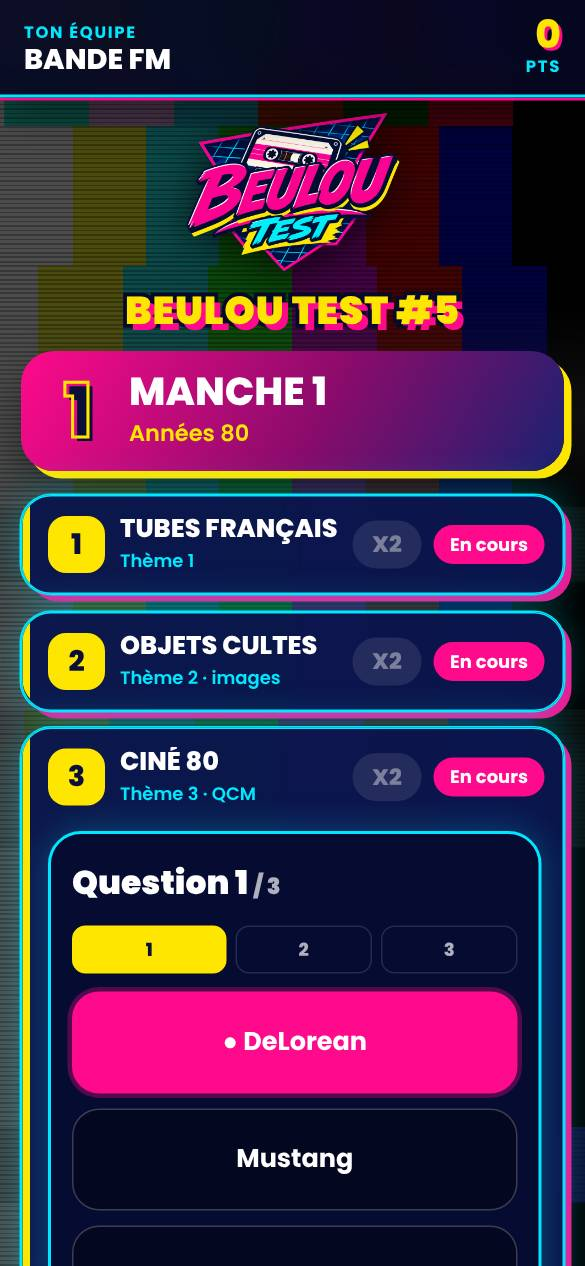
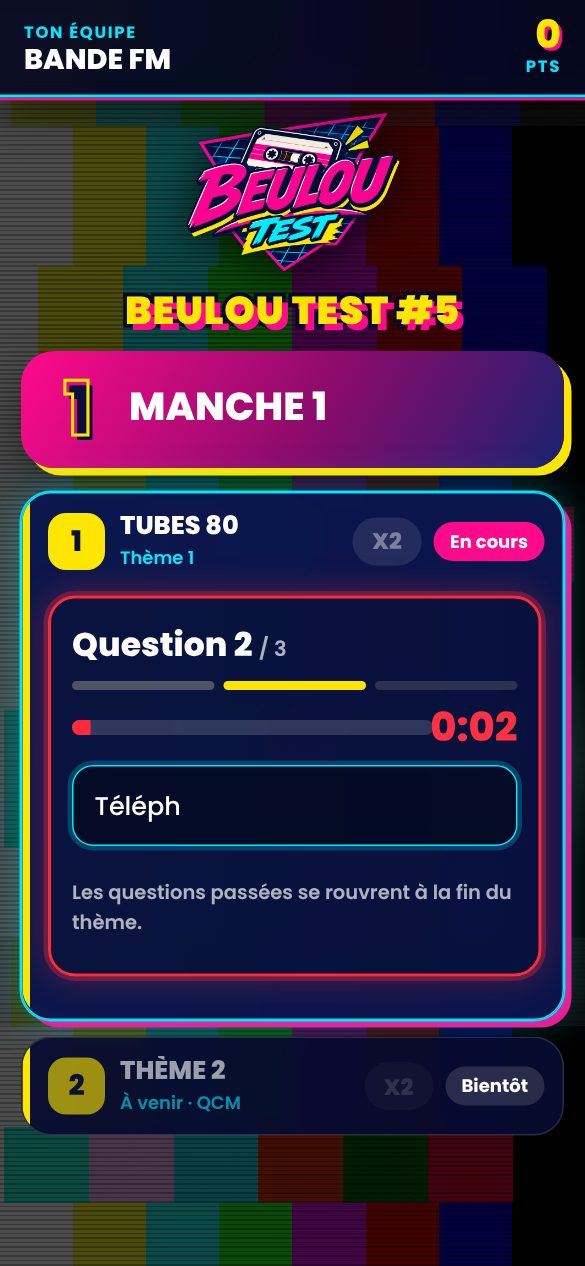
Chrono par question (rouge et qui grossit sur les 5 dernières s), une question à la fois chez les joueurs, égaliseurs selon le thème graphique
Claude-Session: https://claude.ai/code/session_012a2VTXMy2kmUcEyQcvbiQM

diff --git a/index.html b/index.html
@@ -856,6 +856,60 @@ body.sk-school .btn.gh{color:var(--fg);border-color:rgba(28,37,82,.35);backgroun
 /* effets */
 .lv-fx{align-self:center;margin:0 0 10px;padding:5px 12px;border-radius:999px;background:var(--p);font:800 12px Poppins;letter-spacing:.04em}
 .tv-fx{margin:0;color:var(--y)!important;font-weight:800}
+/* ---------- chrono des questions ---------- */
+.qtc{--red:#ff2b3a;display:flex;align-items:center;gap:10px;margin:0 0 12px}
+.qtc-t{flex:1;height:10px;border-radius:6px;background:rgba(255,255,255,.16);overflow:hidden}
+body.sk-school .qtc-t{background:rgba(28,37,82,.12)}
+.qtc-t i{display:block;height:100%;width:100%;background:var(--c);border-radius:6px;transform-origin:left}
+.qtc>b{min-width:46px;text-align:right;font:800 18px var(--fb);font-variant-numeric:tabular-nums;transform:scale(var(--grow,1));transform-origin:right center;transition:transform .2s ease-out}
+.qtc small{flex-basis:100%;order:3;margin-top:-6px;font:600 11px var(--fb);color:var(--mut)}
+.qtc{flex-wrap:wrap}
+.qtc.hot .qtc-t i,.qtc.over .qtc-t i{background:var(--red)}.qtc.hot>b,.qtc.over>b{color:var(--red)}
+.qtp{animation:qtp .9s cubic-bezier(.2,.7,.3,1)}@keyframes qtp{0%{filter:brightness(2.2)}100%{filter:none}}
+.lv-qt{margin:0 0 6px}
+/* une question à la fois */
+.oq{display:flex;flex-direction:column;gap:12px;padding:14px;border-radius:18px;background:rgba(0,0,0,.18);border:2px solid var(--c);margin:0 0 12px;transition:border-color .3s,box-shadow .3s}
+body.sk-school .oq{background:#fff}
+.oq.qt-hot{border-color:#ff2b3a;box-shadow:0 0 0 3px rgba(255,43,58,.3),0 0 24px rgba(255,43,58,.35)}
+.oq.lk{border-color:rgba(255,43,58,.6)}
+.oq .qtc{margin:0}
+.oq-h{display:flex;flex-direction:column;gap:8px}.oq-h b{font:800 22px var(--fb)}.oq-h small{font-size:14px;color:var(--mut);font-weight:600}
+.oq-d{display:flex;gap:6px}.oq-d i{flex:1;height:6px;border-radius:3px;background:rgba(127,127,127,.3)}.oq-d i.ps{background:rgba(127,127,127,.6)}.oq-d i.cu{background:var(--y)}
+.oq-a{border:0;margin:0;padding:0;min-width:0;display:flex;flex-direction:column;gap:10px}
+.oq-a .in{font-size:17px;padding:14px}.oq-a .qf2{display:flex;flex-direction:column;gap:10px}
+.oq-a:disabled{opacity:.55}
+.oq-img{border:0;padding:0;background:none;border-radius:14px;overflow:hidden;cursor:zoom-in}.oq-img .pic{width:100%;display:block}
+.oq-lk{margin:0;padding:10px 12px;border-radius:12px;background:rgba(255,43,58,.15);color:#ff5a66;font:700 13px var(--fb)}
+body.sk-school .oq-lk{color:#d62828}
+.oq-rv,.oq-end{display:flex;flex-direction:column;gap:2px;padding:12px 14px;border-radius:16px;margin:0 0 12px;font:800 15px var(--fb)}
+.oq-rv{background:var(--y);color:var(--n)}.oq-rv span,.oq-end span{font:600 12px var(--fb);opacity:.8}
+.oq-end{background:rgba(127,127,127,.15)}
+/* projection : anneau qui grossit sur la fin */
+.tv-ck{position:absolute;right:3cqi;top:6.5cqi;width:10cqi;height:10cqi;z-index:3;transform:scale(var(--grow,1));transform-origin:top right;transition:transform .25s ease-out}
+.tv-ck svg{width:100%;height:100%;transform:rotate(-90deg)}.tv-ck circle{fill:none;stroke-width:9}
+.tv-ck .bg{stroke:rgba(127,127,127,.28)}.tv-ck .fg{stroke:var(--c);stroke-linecap:round}
+.tv-ck b{position:absolute;inset:0;display:grid;place-items:center;font:800 3.4cqi var(--fb);font-variant-numeric:tabular-nums}
+.tv-ck.hot .fg,.tv-ck.over .fg{stroke:#ff2b3a}.tv-ck.hot b,.tv-ck.over b{color:#ff2b3a}.tv-ck.hot{filter:drop-shadow(0 0 1.2cqi rgba(255,43,58,.7))}
+.tv-ck.qtc{display:block;margin:0}.tv-ck.qtc>b{position:absolute;inset:0;min-width:0;display:grid;place-items:center;text-align:center;transform:none}
+.tv.qt-hot::after{content:"";position:absolute;inset:0;pointer-events:none;z-index:4;box-shadow:inset 0 0 6cqi rgba(255,43,58,.45);animation:qte 1s ease-in-out infinite}
+@keyframes qte{50%{opacity:.35}}
+/* égaliseurs selon le thème graphique (par défaut : TV Glitch) */
+.tv-eq{height:9cqi;align-items:flex-end;justify-content:center}
+.tv-eq .disc{display:none}
+.tv-eq i{width:1.3cqi;border-radius:.3cqi;background:linear-gradient(0deg,#ff0a8c,#00e8ff);box-shadow:-.25cqi 0 0 rgba(255,10,140,.75),.25cqi 0 0 rgba(0,232,255,.75);-webkit-mask:repeating-linear-gradient(0deg,#000 0 .45cqi,transparent .45cqi .6cqi);mask:repeating-linear-gradient(0deg,#000 0 .45cqi,transparent .45cqi .6cqi)}
+body.sk-s90 .tv-eq{gap:1cqi}
+body.sk-s90 .tv-eq i{width:2cqi;background:var(--p);border:.25cqi solid #0e0620;box-shadow:.45cqi .45cqi 0 #0e0620;-webkit-mask:none;mask:none;border-radius:0}
+body.sk-s90 .tv-eq i:nth-of-type(3n+2){background:var(--c)}body.sk-s90 .tv-eq i:nth-of-type(3n){background:var(--y)}body.sk-s90 .tv-eq i:nth-of-type(odd){border-radius:1cqi 1cqi 0 0}
+body.sk-sombre .tv-eq{gap:.5cqi}
+body.sk-sombre .tv-eq i{width:1.8cqi;border-radius:0;box-shadow:none;background:linear-gradient(0deg,#5c5a55 0 55%,#b9b4aa 55% 78%,#e0202c 78%) bottom/100% 9cqi;-webkit-mask:repeating-linear-gradient(0deg,#000 0 .7cqi,transparent .7cqi .95cqi);mask:repeating-linear-gradient(0deg,#000 0 .7cqi,transparent .7cqi .95cqi)}
+body.sk-soul .tv-eq{align-items:center;gap:.7cqi}
+body.sk-soul .tv-eq i{width:1cqi;border-radius:1cqi;box-shadow:none;-webkit-mask:none;mask:none;background:linear-gradient(0deg,#c8552d,#d9a441)}
+body.sk-soul .tv-eq .disc{display:block;width:9cqi;height:9cqi;border-radius:50%;margin:0 1.4cqi;flex:none;position:relative;background:radial-gradient(circle,#17120e 0 4%,#d9a441 4.5% 26%,#c8552d 26.5% 30%,#111 30.5% 100%);box-shadow:0 0 0 .3cqi #2a211a}
+body.sk-soul .tv-eq .disc::after{content:"";position:absolute;inset:0;border-radius:50%;background:repeating-radial-gradient(circle,transparent 0 .35cqi,rgba(255,255,255,.06) .35cqi .45cqi);-webkit-mask:radial-gradient(circle,transparent 31%,#000 31.5%);mask:radial-gradient(circle,transparent 31%,#000 31.5%)}
+body.sk-soul .tv-eq.on .disc{animation:qtspin 1.8s linear infinite}@keyframes qtspin{to{transform:rotate(360deg)}}
+body.sk-school .tv-eq{gap:1.1cqi;border-bottom:.35cqi solid #1f3a93;padding:0 1cqi}
+body.sk-school .tv-eq i{width:1.8cqi;box-shadow:none;-webkit-mask:none;mask:none;background:repeating-linear-gradient(-35deg,#2549b8 0 .3cqi,transparent .3cqi .7cqi);border:.3cqi solid #2549b8;border-bottom:0;border-top-color:#d62828;border-radius:.6cqi .3cqi 0 0/.9cqi .4cqi 0 0}
+@media (prefers-reduced-motion:reduce){.qtp,.tv.qt-hot::after,body.sk-soul .tv-eq.on .disc{animation:none}.tv-ck,.qtc>b{transition:none}}
 </style></head>
 <body><div id="app">Chargement...</div>
 <script src="https://www.gstatic.com/firebasejs/10.12.2/firebase-app-compat.js"></script>
@@ -934,7 +988,7 @@ function normTh(x){const q0=(x.q||[]).map(y=>Object.assign({a:'',t:'',b:'',r:'',
  const q=q0.map(y=>legacyImg&&!y.b?{...y,b:y.r}:y).map(y=>sup==='mus'&&disp==='cov'?{...y,im:y.cv?String(y.cv).replace(/\/\d+x\d+-/,'/500x500-'):''}:y);
  const fld=(rep==='fld'||rep==='bz')&&sup!=='txt';
  return{n:x.n||'',sup,disp,rep,vid:sup==='vid',ty:sup==='img'||timed?'img':sup==='txt'?'txt':'mus',tm:disp==='qa'?'qa':'lyr',im:sup==='mus'&&disp==='cov'?'bl':sup==='img'?disp:'cl',
-  qm:rep==='qcm'?'qcm':rep==='bz'?'bz':'cl',nc:x.nc==2?2:4,ea:fld&&ea,et:fld&&et,eb:fld&&eb,bp:+x.bp||2,bm:!!x.bm,fx:sup==='mus'&&disp==='ext'&&FX[x.fx]?x.fx:'',bl,sx:!!x.sx,q:q.slice(0,QMAX),pts:sup==='txt'&&rep!=='qcm'?2:1}}
+  qm:rep==='qcm'?'qcm':rep==='bz'?'bz':'cl',nc:x.nc==2?2:4,ea:fld&&ea,et:fld&&et,eb:fld&&eb,bp:+x.bp||2,bm:!!x.bm,qt:timed?0:(x.qt==null?30:+x.qt||0),fx:sup==='mus'&&disp==='ext'&&FX[x.fx]?x.fx:'',bl,sx:!!x.sx,q:q.slice(0,QMAX),pts:sup==='txt'&&rep!=='qcm'?2:1}}
 const hh=s=>{let h=7;for(const c of s)h=(h*31+c.charCodeAt(0))%1000003;return h};
 const qord=(key,j,n)=>[...Array(n).keys()].sort((a,b)=>hh(key+'|'+j+'|'+a)-hh(key+'|'+j+'|'+b));
 const qpend={};let rvw=null,renS=null,cfgNR=3,prepR=0,openTh=null,drg=null;
@@ -1228,7 +1282,7 @@ function tvScreen(){document.body.classList.add('tvm');if(!WL||WL.released)wake(
  if(!gl||!tready)return GB+BRAND(true)+GC('Chargement','Une seconde');
  if(!g)return GB+BRAND(true)+GC('Session introuvable','Vérifie le lien');
  const r=g.r,I=r>=0?ri(r):{},RN=r===FI()?'Finale':'Manche '+(r+1),st=r>=0?g.rd?.[r]:null,url=location.origin+location.pathname+'?s='+sid;
- let top=`<span class="tv-ti">${esc(g.title||'')}</span>`,m='';
+ let top=`<span class="tv-ti">${esc(g.title||'')}</span>`,m='',ring='';
  const big=(k,t,p)=>`<div class="tv-big"><small>${k}</small><h1>${t}</h1>${p?`<p>${p}</p>`:''}</div>`;
  if(fin())m=tvStats(g.fs||0);
  else if(g.tb&&!fin())m=`<div class="tv-tb">${tbLive()}</div>`;
@@ -1238,6 +1292,7 @@ function tvScreen(){document.body.classList.add('tvm');if(!WL||WL.released)wake(
   if(g.cd?.[r])m=`<div class="tv-cd"><small>Fin de la manche dans</small><b class="cdn">${Math.ceil(cdLeft(r)??30)}</b><span>Finissez de répondre et pensez à cocher votre « x2 »</span></div>`;
   else if(ct==null)m=big(RN,esc(pubRn(I,r)),'Le premier thème arrive');
   else{const x=th(r)[ct],key=`${r}_${ct}`,N=x.q.length,j=Math.max(0,Math.min(N-1,g.cs?.[key]??0)),q=x.q[j],L=rcvOf(r,x,key,j);
+   if(!isPrg(x))ring=qtRing(x,key,j);
    top+=`<span>${RN} · Thème ${ct+1} · ${esc(pubTn(x,ct))}</span><span class="tv-rc">${L.filter(z=>z.ok).length}/${L.length} réponses reçues</span>`;
    if(x.qm==='bz'){const{w,hand}=bzQ(key,j);m=`<div class="tv-big tv-bz"><small>Buzzer · Question ${j+1} / ${N}</small>${x.ty==='img'?`<div class="tv-bzi">${pic(q.im,'full')}</div>`:x.ty==='txt'?`<h2>${x.tm==='lyr'?'« '+esc(q.p)+' … »':esc(q.p)}</h2>`:''}${w?`<div class="tv-bzh ok"><small>Point pour</small><b>${tnm(w)}</b></div>`:hand?`<div class="tv-bzh"><small>À la main</small><b>${esc(hand.name)}</b></div>`:x.vid?'<div class="ytslot tv-yt"></div>':`<h1>À vos buzzers</h1>`}</div>`}
    else if(x.ty==='img'&&isPrg(x)){const l=Math.min(3,g.pl?.[key]??0);m=`<div class="tv-img">${prgPic(x,q.im,l,'full','')}<div class="tv-side"><small>Image ${j+1} / ${N}</small><b>${l<3?'Vaut '+PT[l]+' pts':'Image entière · 1 pt'}</b><div class="tv-pts">${PT.map((p,k)=>`<i class="${k===l?'on':k<l?'past':''}">${p}</i>`).join('')}</div></div></div>`}
@@ -1245,11 +1300,11 @@ function tvScreen(){document.body.classList.add('tvm');if(!WL||WL.released)wake(
    else if(x.ty==='img')m=`<div class="tv-img one">${pic(q.im,'full')}<div class="tv-side"><small>Image ${j+1} / ${N}</small>${x.qm==='qcm'?tvCh(x,key,j):''}</div></div>`;
    else if(x.ty==='txt')m=`<div class="tv-big tv-txt"><small>Question ${j+1} / ${N}</small><h2>${x.tm==='lyr'?'« '+esc(q.p)+' … »':esc(q.p)}</h2>${x.qm==='qcm'?tvCh(x,key,j):`<p>${x.tm==='lyr'?'Écrivez la suite':'Écrivez votre réponse'}</p>`}</div>`;
    else if(x.vid)m=`<div class="tv-v"><small>Question ${j+1} / ${N}</small><div class="ytslot tv-yt"></div></div>`;
-   else{const on=g.np?.st==='play'&&q.dz&&g.np.id===q.dz;m=`<div class="tv-big"><small>Question ${j+1} / ${N}</small><h1>${on?'Écoutez bien':'Question '+(j+1)}</h1>${x.fx?`<p class="tv-fx">Extrait ${x.fx==='rev'?'à l\'envers':x.fx==='slow'?'ralenti':'en voix aiguë'}</p>`:''}<div class="tv-eq ${on?'on':''}">${'<i></i>'.repeat(11)}</div>${x.qm==='qcm'?tvCh(x,key,j):`<p>${x.ea&&x.et?'Artiste et titre':x.ea?'Artiste':'Titre'}${x.eb?' · bonus '+esc(bLab(x)):''}</p>`}</div>`}}}
+   else{const on=g.np?.st==='play'&&q.dz&&g.np.id===q.dz;m=`<div class="tv-big"><small>Question ${j+1} / ${N}</small><h1>${on?'Écoutez bien':'Question '+(j+1)}</h1>${x.fx?`<p class="tv-fx">Extrait ${x.fx==='rev'?'à l\'envers':x.fx==='slow'?'ralenti':'en voix aiguë'}</p>`:''}<div class="tv-eq ${on?'on':''}">${'<i></i>'.repeat(5)}<span class="disc"></span>${'<i></i>'.repeat(6)}</div>${x.qm==='qcm'?tvCh(x,key,j):`<p>${x.ea&&x.et?'Artiste et titre':x.ea?'Artiste':'Titre'}${x.eb?' · bonus '+esc(bLab(x)):''}</p>`}</div>`}}}
  else if(st==='closed')m=big(RN,'Corrections en cours','Les points arrivent, restez dans le coin');
  else if(st==='validated'){const L=place(r),an=TVSEEN!=='rk'+r;TVSEEN='rk'+r;m=`<div class="tv-rk"><small>Classement après ${r===FI()?'la finale':'la manche '+(r+1)}</small>${L.map((t,i)=>`<div class="tv-r ${an?'anim':''} p${t.pos}" style="animation-delay:${((L.length-1-i)*.8).toFixed(1)}s"><span>${t.pos}</span><b>${esc(t.name)}</b><em>${t.sc} pts</em></div>`).join('')}</div>`}
  else m=big(RN,esc(pubRn(I,r)),'La manche va commencer');
- return`<div class="tv"><div class="tv-top">${top}</div><div class="tv-m">${m}</div></div>`}
+ return`<div class="tv"><div class="tv-top">${top}</div>${st==='open'&&!g.cd?.[r]?ring:''}<div class="tv-m">${m}</div></div>`}
 const tvCh=(x,key,j)=>{const C=x.q[j].c||[];return`<div class="tv-ch ${x.nc==2?'two':''}">${qord(key,j,x.nc).map((c,i)=>`<div><i>${'ABCD'[i]}</i>${esc(C[c]||'—')}</div>`).join('')}</div>`};
 let VK,NOTE=null;
 function team(){
@@ -1301,8 +1356,10 @@ function team(){
    h+=`<div class="db">`+(x.sx?guessBox(t,key,'Nom du thème',BT):'');
    if(x.eb)h+=`<p class="bnh">Bonus : <b>${esc(bLab(x))}</b> · +1 pt par bonus trouvé</p>`;
    if(x.vid&&play&&g.ct?.[r]===i)h+=`<div class="ytslot p-yt"></div><p class="hint" style="margin:6px 0 12px">Question ${(g.cs?.[key]??0)+1} · ${g.vsnd?'son sur ton téléphone':'regarde, le son passe dans la salle'}</p>`;
-   if(x.qm==='bz')h+=bzPlay(t,x,key,s);else if(x.ty==='txt'&&x.qm!=='qcm')h+=txtPlay(t,x,key,s);else if(x.ty==='img')h+=imgPlay(t,x,key,s);else if(x.qm==='qcm')h+=qcmPlay(t,x,key,s);else for(let j=0;j<x.q.length;j++){const kk=`a|${key}|${j}`,kb=`a|${key}|${BO+j}`;h+=`<div class="qi"><i>${j+1}</i><div class="qf">${x.ea||x.et?`<input class="in" data-k="${kk}" autocomplete="off" enterkeyhint="next" placeholder="${x.ea&&x.et?'Artiste - Titre':x.ea?'Artiste':'Titre'}" value="${esc(draft[kk]??t.answers?.[key]?.[j]??'')}">`:''}${x.eb?`<input class="in bn" data-k="${kb}" autocomplete="off" enterkeyhint="next" placeholder="+1 ${esc(bLab(x))}" value="${esc(draft[kb]??t.answers?.[key]?.[BO+j]??'')}">`:''}</div></div>`}
-   h+=x.qm==='bz'?'':play?`<button class="btn blk y" data-a="done" data-t="${i}">Valider ce thème</button>`:`<p class="mut" style="margin:4px 0 0">Enregistré automatiquement.</p>`;
+   const one=play&&g.one?.[key]&&!g.cd?.[r]&&!isPrg(x)&&x.qm!=='bz'?onePlay(t,x,key,i,r):null,rev=play&&g.one?.[key]&&!g.cd?.[r]&&!isPrg(x)&&x.qm!=='bz'&&one===null;
+   if(rev)h+=`<div class="oq-rv"><b>Fin du thème : relis tes réponses</b><span>Tu peux corriger jusqu'à l'ouverture du thème suivant.</span></div>`;
+   if(one)h+=one;else if(x.qm==='bz')h+=bzPlay(t,x,key,s);else if(x.ty==='txt'&&x.qm!=='qcm')h+=txtPlay(t,x,key,s);else if(x.ty==='img')h+=imgPlay(t,x,key,s);else if(x.qm==='qcm')h+=qcmPlay(t,x,key,s);else for(let j=0;j<x.q.length;j++){const kk=`a|${key}|${j}`,kb=`a|${key}|${BO+j}`;h+=`<div class="qi"><i>${j+1}</i><div class="qf">${x.ea||x.et?`<input class="in" data-k="${kk}" autocomplete="off" enterkeyhint="next" placeholder="${x.ea&&x.et?'Artiste - Titre':x.ea?'Artiste':'Titre'}" value="${esc(draft[kk]??t.answers?.[key]?.[j]??'')}">`:''}${x.eb?`<input class="in bn" data-k="${kb}" autocomplete="off" enterkeyhint="next" placeholder="+1 ${esc(bLab(x))}" value="${esc(draft[kb]??t.answers?.[key]?.[BO+j]??'')}">`:''}</div></div>`}
+   h+=x.qm==='bz'||one?'':play?`<button class="btn blk y" data-a="done" data-t="${i}">Valider ce thème</button>`:`<p class="mut" style="margin:4px 0 0">Enregistré automatiquement.</p>`;
    h+=`</div>`;
   }
   h+=`</div>`;
@@ -1549,7 +1606,7 @@ function bzAdm(x,key,j){const{L,out,w,hand}=bzQ(key,j),wait=L.filter(t=>!out.inc
 function bzPlay(t,x,key,s){const N=x.q.length;
  if(s!=='open')return`<p class="bnh">Buzzer : les points arrivent avec les corrections.</p>`;
  const j=Math.max(0,Math.min(N-1,g.cs?.[key]??0)),q=x.q[j],{L,out,w,hand}=bzQ(key,j),mine=t.bzz?.[key]?.[j]!==undefined,rk=L.findIndex(z=>z.id===t.id);
- let h=`<div class="bzp"><div class="qf-h"><b>Question ${j+1} <small>/ ${N}</small></b></div>`;
+ let h=`<div class="bzp oq"><div class="qf-h"><b>Question ${j+1} <small>/ ${N}</small></b></div>${qtBar(x,key,j)}`;
  if(x.ty==='img')h+=`<div class="bzp-m">${pic(q.im,'full')}</div>`;else if(x.ty==='txt')h+=`<p class="qf-p">${x.tm==='lyr'?'« '+esc(q.p)+' … »':esc(q.p)}</p>`;
  let st;
  if(w)st=w===t.id?`<div class="bzp-s ok"><b>Bien joué !</b><span>+${x.bp} pts pour ton équipe</span></div>`:`<div class="bzp-s"><b>${tnm(w)} a trouvé</b><span>Prochaine question bientôt</span></div>`;
@@ -1558,6 +1615,44 @@ function bzPlay(t,x,key,s){const N=x.q.length;
  else if(mine)st=`<div class="bzp-s"><b>Buzzé</b><span>${rk>0?'Tu es '+(rk+1)+'e dans la file':'En attente'}${hand?' · '+esc(hand.name)+' a la main':''}</span></div>`;
  else st=`<button class="bzp-btn" data-a="buzz" data-key="${key}" data-j="${j}"><span>Buzz</span></button>${hand?`<p class="bnh">${esc(hand.name)} a la main. Buzze pour passer après.</p>`:''}`;
  return h+st+`<p class="bnh">Le plus rapide répond à voix haute : <b>${x.bp} pts</b> si c'est juste.</p></div>`}
+/* ============ CHRONO DES QUESTIONS ============
+   g.tq[key] = {j, at} : départ de la question j du thème (heure de l'admin). Pour la musique Deezer et la vidéo,
+   le chrono part au lancement de l'extrait ; sinon dès l'affichage de la question en mode soirée. */
+const QTS=[0,15,20,30,45,60];
+const needsPlay=(x,j)=>!!((x.sup==='mus'&&x.disp==='ext'&&x.q[j]?.dz)||(x.vid&&x.q[j]?.yt));
+const qtOf=(x,key,j)=>{const d=+x.qt||0;if(!d)return null;const o=g?.tq?.[key];return{d,end:o&&o.j===j?o.at+d*1000:0}};
+const qtOver=(x,key,j)=>{const T=qtOf(x,key,j);return!!(T&&T.end&&Date.now()>=T.end)};
+const qtL=T=>T.end?Math.max(0,(T.end-Date.now())/1000):T.d,qtF=T=>(qtL(T)/T.d).toFixed(3);
+const qtTxt=s=>{s=Math.max(0,Math.ceil(s));return Math.floor(s/60)+':'+String(s%60).padStart(2,'0')};
+function qtBar(x,key,j,cl=''){const T=qtOf(x,key,j);if(!T)return'';
+ return`<div class="qtc ${cl}" data-end="${T.end}" data-d="${T.d}" role="timer" aria-label="Temps restant"><div class="qtc-t"><i style="transform:scaleX(${qtF(T)})"></i></div><b>${qtTxt(qtL(T))}</b>${T.end?'':`<small>${needsPlay(x,j)?'Démarre avec l\'extrait':'En attente'}</small>`}</div>`}
+function qtRing(x,key,j){const T=qtOf(x,key,j);if(!T)return'';
+ return`<div class="tv-ck qtc ring" data-end="${T.end}" data-d="${T.d}" aria-hidden="true"><svg viewBox="0 0 100 100"><circle class="bg" cx="50" cy="50" r="44"/><circle class="fg" cx="50" cy="50" r="44" stroke-dasharray="276.5" style="stroke-dashoffset:${276.5*(1-qtF(T))}"/></svg><b>${Math.ceil(qtL(T))}</b></div>`}
+let QTV={},QTR='';
+(function qtLoop(){const now=Date.now();
+ document.querySelectorAll('.qtc').forEach(el=>{const end=+el.dataset.end,d=+el.dataset.d,left=end?Math.max(0,(end-now)/1000):d,f=left/d,sec=Math.ceil(left),hot=end&&left>0&&left<=5,over=end&&left<=0;
+  const bar=el.querySelector('.qtc-t i');if(bar)bar.style.transform=`scaleX(${f})`;
+  const fg=el.querySelector('.fg');if(fg)fg.style.strokeDashoffset=String(276.5*(1-f));
+  const b=el.querySelector('b'),txt=el.classList.contains('ring')?String(sec):qtTxt(left);if(b&&b.textContent!==txt){b.textContent=txt;if(hot){b.classList.remove('qtp');void b.offsetWidth;b.classList.add('qtp')}}
+  el.classList.toggle('hot',!!hot);el.classList.toggle('over',!!over);el.style.setProperty('--grow',hot?(1+(6-sec)*(el.classList.contains('ring')?.16:.12)).toFixed(2):1);
+  const box=el.closest('.oq,.tv,.lv-b');if(box)box.classList.toggle('qt-hot',!!hot);
+  if(hot&&!ADMIN&&!TVM){const k=end+'|'+sec;if(!QTV[k]){QTV[k]=1;try{navigator.vibrate?.(45)}catch(e){}}}});
+ const ex=[...document.querySelectorAll('.qtc[data-end]')].filter(el=>+el.dataset.end&&now>=+el.dataset.end).map(el=>el.dataset.end).join();
+ if(ex!==QTR){QTR=ex;if(ex&&typeof render==='function')render()}
+ requestAnimationFrame(qtLoop)})();
+/* une question à la fois (mode soirée) : seule la question en cours est ouverte ; tout se rouvre en fin de thème et pendant la clôture */
+function onePlay(t,x,key,i,r){const N=x.q.length,j=Math.max(0,Math.min(N-1,g.cs?.[key]??0));
+ if(g.ct?.[r]!==i)return`<div class="oq-end"><b>Thème terminé</b><span>Tu pourras revoir tes réponses à la fin de la manche.</span></div>`;
+ const T=qtOf(x,key,j),over=qtOver(x,key,j);
+ if(j===N-1&&(!T||over))return null; // fin du thème : on rouvre toute la liste
+ const q=x.q[j],Q=x.qm==='qcm';
+ let m='';
+ if(x.ty==='img')m=`<button class="oq-img" data-a="zoom" data-id="${q.im||''}" aria-label="Agrandir l'image">${pic(q.im,'full')}</button>`;
+ else if(x.ty==='txt')m=`<p class="qf-p">${x.tm==='lyr'?'« '+esc(q.p)+' <b>…</b> »':esc(q.p)}</p>`;
+ let a=Q?qchoice(t,x,key,j,over?'closed':'open',false):x.ty==='txt'?(()=>{const kk=`a|${key}|${j}`;return`<input class="in" data-k="${kk}" autocomplete="off" enterkeyhint="done" placeholder="${x.tm==='lyr'?'La suite…':'Ta réponse'}" value="${esc(draft[kk]??t.answers?.[key]?.[j]??'')}">`})():fldIn(t,x,key,j);
+ return`<div class="oq ${over?'lk':''}"><div class="oq-h"><b>Question ${j+1} <small>/ ${N}</small></b><div class="oq-d" aria-hidden="true">${x.q.map((_,k)=>`<i class="${k<j?'ps':k===j?'cu':''}"></i>`).join('')}</div></div>
+  ${qtBar(x,key,j)}${m}<fieldset class="oq-a" ${over?'disabled':''}>${a}</fieldset>
+  ${over?'<p class="oq-lk">Temps écoulé. Tu pourras revoir ta réponse à la fin du thème.</p>':`<p class="bnh">${j?'Les questions passées se rouvrent à la fin du thème.':'Réponds avant la fin du chrono.'}</p>`}</div>`}
 function answered(t,x,key,j){if(x.qm==='bz')return t.bzz?.[key]?.[j]!=null;if(x.ty==='img'&&isPrg(x))return!!t.lk?.[key]?.[j];if(x.qm==='qcm')return!!(t.qa?.[key]?.[j]||[]).length;return!!ansOf(t,key,j)}
 function rcvOf(r,x,key,j){const TM=r===FI()?teams.filter(t=>inFinal(t.id)):teams;return TM.map(t=>({t,ok:answered(t,x,key,j)}))}
 function rcvBar(r,x,key,j){const L=rcvOf(r,x,key,j),n=L.filter(z=>z.ok).length;return`<div class="lv-rcv"><b>${n}/${L.length}</b><span>réponses reçues</span><span class="lv-rcd">${L.map(z=>`<i class="${z.ok?'ok':''}" title="${esc(z.t.name)}">${esc((z.t.name||'?').replace(/^(les?|la|team)\s+/i,'').slice(0,2).toUpperCase())}</i>`).join('')}</span></div>`}
@@ -1582,7 +1677,7 @@ const slide=(a,label,sub,attrs)=>`<div class="sld" data-slide><i class="sl-f"></
 ['pointerdown','pointerup','pointercancel'].forEach(ev=>document.addEventListener(ev,e=>{if(ev==='pointerdown'){const p=e.target.closest?.('[data-peek]');if(p)p.classList.add('show')}else document.querySelectorAll('.peek.show').forEach(p=>p.classList.remove('show'))}));
 const expTxt=(x,q)=>x.qm==='qcm'?(q.c?.[0]||''):x.ty==='txt'?(q.r||''):[x.ea&&q.a,x.et&&q.t].filter(Boolean).join(' · ')+(x.eb&&q.b?` · ${bLab(x)} : ${q.b}`:'');
 function lvQ(r,t,x,key,j){const q=x.q[j],N=x.q.length,img=x.ty==='img';
- let h=`<div class="lv-qh"><b>Question ${j+1}</b><span>/ ${N}</span><div class="lv-dots" aria-hidden="true">${x.q.map((_,i)=>`<i class="${i<j?'dn':i===j?'cu':''}"></i>`).join('')}</div></div><div class="lv-b">`;
+ let h=(isPrg(x)?'':qtBar(x,key,j,'lv-qt'))+`<div class="lv-qh"><b>Question ${j+1}</b><span>/ ${N}</span><div class="lv-dots" aria-hidden="true">${x.q.map((_,i)=>`<i class="${i<j?'dn':i===j?'cu':''}"></i>`).join('')}</div></div><div class="lv-b">`;
  if(img&&isPrg(x)){const l=Math.min(3,g.pl?.[key]??0),mine=LV&&LV.key===key&&LV.j===j,el=mine?LV.el:l>=3?30:(RB[l-1]||0);
   h+=`${prgPic(x,q.im,l,'big','lv-img')}
   <div class="lv-rk"><div>${PT.map((p,i)=>`<span style="flex:${RB[i]-(RB[i-1]||0)}">${p} pt${p>1?'s':''}</span>`).join('')}</div><i id="lvb" style="width:${(el/30*100).toFixed(1)}%"></i></div>
@@ -1781,7 +1876,7 @@ const REPS=[['fld','Champs','Artiste, titre ou bonus à écrire'],['qcm','QCM','
 const isTimed=d=>(d.sup==='img'&&(d.disp==='pr'||d.disp==='bl'))||(d.sup==='mus'&&d.disp==='cov');
 const supIc=k=>`<span class="g-ic g-${SUPS[k][1]}"><svg width="20" height="20" viewBox="0 0 24 24" fill="none" stroke="currentColor" stroke-width="2.2" stroke-linecap="round" stroke-linejoin="round" aria-hidden="true"><path d="${SUPS[k][2]}"/></svg></span>`;
 function thLab(x0){const x=normTh(x0),D=DISP[x.sup]||[],d=D.find(v=>v[0]===x.disp);
- return{t:SUPS[x.sup][0]+(d&&D.length>1?' · '+d[1]:'')+(x.fx?' · '+FX[x.fx][0]:''),s:(x.qm==='bz'?'Buzzer · '+x.bp+' pts':x.qm==='qcm'?x.nc+' réponses au choix':x.ty==='txt'?'Réponse écrite · 2 pts':[x.ea&&'Artiste',x.et&&'Titre',x.eb&&bLab(x)].filter(Boolean).join(' + '))+(x.sx?' · nom mystère':'')}}
+ return{t:SUPS[x.sup][0]+(d&&D.length>1?' · '+d[1]:'')+(x.fx?' · '+FX[x.fx][0]:''),s:(x.qt?x.qt+' s par question · ':'')+(x.qm==='bz'?'Buzzer · '+x.bp+' pts':x.qm==='qcm'?x.nc+' réponses au choix':x.ty==='txt'?'Réponse écrite · 2 pts':[x.ea&&'Artiste',x.et&&'Titre',x.eb&&bLab(x)].filter(Boolean).join(' + '))+(x.sx?' · nom mystère':'')}}
 let gsh=null; // volet ouvert : {r,i,step,d}
 function gSheet(){if(!gsh)return'';const d=gsh.d,on=c=>c?'on':'',timed=isTimed(d),
  grp=(t,cols,items)=>`<div class="g-grp"><span>${t}</span><div style="grid-template-columns:repeat(${cols},minmax(0,1fr))">${items.join('')}</div></div>`,
@@ -1795,6 +1890,7 @@ function gSheet(){if(!gsh)return'';const d=gsh.d,on=c=>c?'on':'',timed=isTimed(d
   if((d.rep==='fld'||d.rep==='bz')&&d.sup!=='txt'){G.push(grp('À trouver',3,[opt('ea',1,'Artiste','',on(d.ea)),opt('et',1,'Titre','',on(d.et)),opt('eb',1,'Bonus','libellé au choix',on(d.eb))]));
    if(d.eb)G.push(`<label class="g-grp"><span>Intitulé du bonus</span><input class="in" data-k="gbl" placeholder="Ex : Année, Artiste original, Film" value="${esc(d.bl||'')}"></label>`)}
   if(d.rep==='qcm')G.push(grp('Nombre de choix',2,[opt('nc',2,'2 réponses','',on(d.nc==2)),opt('nc',4,'4 réponses','',on(d.nc!=2))]));
+  if(!timed)G.push(grp('Temps par question',3,QTS.map(v=>opt('qt',v,v?v+' s':'Aucun',v===30?'conseillé':'',on((d.qt??30)===v)))));
   G.push(grp('Nom du thème',2,[opt('sx',0,'Visible','affiché aux équipes',on(!d.sx)),opt('sx',1,'Mystère','+'+BT+' pts à deviner',d.sx?'on y':'')]));
   body=`<div class="g-cur">${supIc(d.sup)}<span class="f"><b>${SUPS[d.sup][0]}</b><small>Touche ‹ pour changer de support</small></span></div>${G.join('')}<button class="btn blk y g-ok" data-a="gok">Valider</button>`}
  return`<div class="g-ov"><button class="g-bg" data-a="gclose" aria-label="Fermer le volet"></button><div class="g-sh" role="dialog" aria-label="Type de thème"><span class="g-hd"></span>
@@ -1912,7 +2008,7 @@ document.addEventListener('click',async e=>{
  if(a==='nsk'){draft.nsk=b.dataset.v;render()}
  if(a==='ssk'){gset({sk:b.dataset.v})}
  if(a==='undo'&&UNDO){const s0=UNDO.snap;UNDO=null;LV=null;await sdoc().update(s0);render()}
- if(a==='ytplay'){const k=b.dataset.k,yd=+b.dataset.yd||30,y=g.yt?.k===k?g.yt:null;
+ if(a==='ytplay'){const k=b.dataset.k,yd=+b.dataset.yd||30,y=g.yt?.k===k?g.yt:null;{const m=k.match(/^(\d+_\d+)_(\d+)$/);if(m&&g.tq?.[m[1]]?.j!==+m[2]&&g.one?.[m[1]]){const[rr,ii]=m[1].split('_');if(+th(+rr)[+ii]?.qt)gset({tq:{[m[1]]:{j:+m[2],at:Date.now()}}})}}
   if(y?.st==='play')gset({yt:{k,st:'pause',pos:Math.min(yd,y.pos+(Date.now()-y.at)/1000),at:Date.now()}});else{let pos=y?.st==='pause'?y.pos:0;if(pos>=yd-.5)pos=0;gset({yt:{k,st:'play',pos,at:Date.now()}})}}
  if(a==='vsnd')gset({vsnd:!g.vsnd});
  if(a==='ytme'){ytMe=!ytMe;render()}
@@ -1946,15 +2042,15 @@ document.addEventListener('click',async e=>{
  if(a==='saveinfo'){b.disabled=true;try{await gset({name:(draft.sn??g.name??'').trim(),title:(draft.stt??g.title??'').trim(),date:draft.sdt??g.date??''});draft.sn=draft.stt=draft.sdt=undefined;render()}catch(x){b.disabled=false;alert('Enregistrement impossible : '+(x.message||x))}}
  if(a==='rsx'){cfgI[r]=cfgI[r]||{n:'',sx:false};cfgI[r].sx=!cfgI[r].sx;render()}
  if(a==='tg'){const x=cfg[r][t],f=b.dataset.f;x[f]=!x[f];if(f!=='sx'&&f!=='eb'&&!x.ea&&!x.et)x[f]=true;render()}
- if(a==='gopen'){const n=normTh(cfg[r][t]);gsh={r,i:t,step:'sup',d:{sup:n.sup,disp:n.disp,rep:n.rep,ea:n.ea,et:n.et,eb:n.eb,bl:n.bl,nc:n.nc,sx:n.sx,fx:n.fx}};render()}
+ if(a==='gopen'){const n=normTh(cfg[r][t]);gsh={r,i:t,step:'sup',d:{sup:n.sup,disp:n.disp,rep:n.rep,ea:n.ea,et:n.et,eb:n.eb,bl:n.bl,nc:n.nc,sx:n.sx,fx:n.fx,qt:n.qt}};render()}
  if(a==='gclose'){gsh=null;render()}
  if(a==='gback'&&gsh){gsh.step='sup';render()}
  if(a==='gsup'&&gsh){const d=gsh.d,v=b.dataset.v;d.sup=v;if(!DISP[v].some(x=>x[0]===d.disp))d.disp=DISP[v][0][0];if(isTimed(d)&&d.rep!=='fld')d.rep='fld';gsh.step='opts';render()}
  if(a==='gset'&&gsh){const d=gsh.d,f=b.dataset.f,v=b.dataset.v;
-  if(f==='ea'||f==='et'||f==='eb'){d[f]=!d[f];if(!d.ea&&!d.et&&!d.eb)d[f]=true}else if(f==='nc')d.nc=+v;else if(f==='fx')d.fx=v;else if(f==='sx')d.sx=v==='1';
+  if(f==='ea'||f==='et'||f==='eb'){d[f]=!d[f];if(!d.ea&&!d.et&&!d.eb)d[f]=true}else if(f==='nc')d.nc=+v;else if(f==='qt')d.qt=+v;else if(f==='fx')d.fx=v;else if(f==='sx')d.sx=v==='1';
   else if(f==='disp'){d.disp=v;if(isTimed(d)&&d.rep!=='fld')d.rep='fld'}else if(f==='rep'){if(!(isTimed(d)&&v!=='fld'))d.rep=v}render()}
  if(a==='gok'&&gsh){const x=cfg[gsh.r][gsh.i],d=gsh.d,was=normTh(x);
-  Object.assign(x,{sup:d.sup,disp:d.disp,rep:d.rep,ty:d.sup==='img'?'img':d.sup==='txt'?'txt':'mus',qm:d.rep==='qcm'?'qcm':d.rep==='bz'?'bz':'cl',im:d.sup==='img'?d.disp:'cl',vid:d.sup==='vid',ea:d.rep!=='qcm'&&d.ea,et:d.rep!=='qcm'&&d.et,eb:d.rep!=='qcm'&&d.eb,bl:d.bl,nc:d.nc,sx:d.sx,fx:d.sup==='mus'&&d.disp==='ext'?d.fx||'':''});
+  Object.assign(x,{sup:d.sup,disp:d.disp,rep:d.rep,ty:d.sup==='img'?'img':d.sup==='txt'?'txt':'mus',qm:d.rep==='qcm'?'qcm':d.rep==='bz'?'bz':'cl',im:d.sup==='img'?d.disp:'cl',vid:d.sup==='vid',ea:d.rep!=='qcm'&&d.ea,et:d.rep!=='qcm'&&d.et,eb:d.rep!=='qcm'&&d.eb,bl:d.bl,nc:d.nc,sx:d.sx,qt:d.qt??30,fx:d.sup==='mus'&&d.disp==='ext'?d.fx||'':''});
   if(!x.q||!x.q.length)x.q=[0,1,2,3,4,5].map(()=>({a:'',t:'',b:'',r:'',im:'',p:''}));
   if(was.sup==='img'&&!cfg[gsh.r][gsh.i].sup_migr)x.q.forEach(q=>{if(q.r&&!q.b)q.b=q.r});gsh=null;render()}
  if(a==='mvrd'&&!started()){const k=r+(+b.dataset.d);if(k<0||k>=cfgNR||r>=cfgNR)return;[cfg[r],cfg[k]]=[cfg[k],cfg[r]];[cfgI[r],cfgI[k]]=[cfgI[k]||{},cfgI[r]||{}];
@@ -1969,7 +2065,7 @@ document.addEventListener('click',async e=>{
  if(a==='vsel'){await gset({cs:{[b.dataset.key]:+b.dataset.j}});return}
  if(a==='dzsel'){AU.pause();dzp={key:b.dataset.key,j:+b.dataset.j};render()}
  if(a==='dzmv'){const k=b.dataset.key,[rr,ii]=k.split('_'),x=th(+rr)[+ii],L=x.q.map((q,j)=>q.dz?j:-1).filter(j=>j>=0),p=L.indexOf(+b.dataset.j)+(+b.dataset.d);if(p<0||p>=L.length)return;AU.pause();dzp={key:k,j:L[p]};render()}
- if(a==='dzplay'){const k=b.dataset.key,j=+b.dataset.j,[rr,ii]=k.split('_'),q=th(+rr)[+ii].q[j];if(!q?.dz)return;dzp.key=k;dzp.j=j;dzp.from='pilot';dzp.err='';
+ if(a==='dzplay'){const k=b.dataset.key,j=+b.dataset.j,[rr,ii]=k.split('_'),q=th(+rr)[+ii].q[j];if(!q?.dz)return;dzp.key=k;dzp.j=j;dzp.from='pilot';dzp.err='';if(g.tq?.[k]?.j!==j&&g.cs?.[k]===j&&+th(+rr)[+ii].qt)gset({tq:{[k]:{j,at:Date.now()}}});
    const fx=normTh(th(+rr)[+ii]).fx,u=dzFresh(q.dz);if(u&&(fx!=='rev'||RVC[u]))dzPlay(q.dz,u,fx);else{dzp.err=fx==='rev'?'Préparation de l\'extrait à l\'envers…':'Chargement de l\'extrait…';render();dzGet(q.dz).then(v=>fxSrc(v,fx).then(()=>v)).then(v=>{dzp.err='';dzPlay(q.dz,v,fx);render()}).catch(e=>{dzp.err=e.message;render()})}render()}
  if(a==='mvq'){const q=cfg[r][t].q,j=+b.dataset.j,k=j+(+b.dataset.d);if(k<0||k>=q.length||g.rd?.[r])return;[q[j],q[k]]=[q[k],q[j]];render()}
  if(a==='mvth'){const T=cfg[r],k=t+(+b.dataset.d);if(k<0||k>=T.length||g.rd?.[r])return;[T[t],T[k]]=[T[k],T[t]];if(openTh===r+'_'+t)openTh=r+'_'+k;else if(openTh===r+'_'+k)openTh=r+'_'+t;render()}
@@ -1991,15 +2087,15 @@ document.addEventListener('click',async e=>{
  if(a==='tbcancel'&&confirm('Annuler le tie break ? Les points de tie break seront effacés.')){await gset({tb:FV.delete(),tbp:FV.delete()});tab='3';render()}
  if(a==='tbp'){const id=b.dataset.id,d=+b.dataset.d;if(d<0&&!(g.tbp?.[id]>0))return;gset({tbp:{[id]:FV.increment(d)}})}
  if(a==='tbok'){await gset({over:true});tab='rank';render();window.scrollTo(0,0)}
- if(a==='lvth'){undoSnap('Thème '+(t+1)+' ouvert');const k=`${r}_${t}`;AU.pause();topNext=1;await gset({th:{[k]:'open'},ct:{[r]:t},cs:{[k]:0},pl:{[k]:0}});lvArm(r,t,0);window.scrollTo(0,0)}
- if(a==='lvq'){const k=`${r}_${t}`,N=th(r)[t]?.q.length||1,j=Math.max(0,Math.min(N-1,(g.cs?.[k]??0)+(+b.dataset.d)));AU.pause();await gset({cs:{[k]:j},pl:{[k]:0}});lvArm(r,t,j)}
+ if(a==='lvth'){undoSnap('Thème '+(t+1)+' ouvert');const k=`${r}_${t}`;AU.pause();topNext=1;const x0=th(r)[t];await gset({th:{[k]:'open'},ct:{[r]:t},cs:{[k]:0},pl:{[k]:0},one:{[k]:true},...(x0&&!needsPlay(x0,0)?{tq:{[k]:{j:0,at:Date.now()}}}:{})});lvArm(r,t,0);window.scrollTo(0,0)}
+ if(a==='lvq'){const k=`${r}_${t}`,N=th(r)[t]?.q.length||1,j=Math.max(0,Math.min(N-1,(g.cs?.[k]??0)+(+b.dataset.d)));AU.pause();const x0=th(r)[t];await gset({cs:{[k]:j},pl:{[k]:0},...(x0&&!needsPlay(x0,j)?{tq:{[k]:{j,at:Date.now()}}}:{})});lvArm(r,t,j)}
  if(a==='lvp'){const k=b.dataset.key,j=+b.dataset.j;if(!LV||LV.key!==k||LV.j!==j)LV={key:k,j,el:0,last:performance.now(),run:false};
   if(LV.el>=30){LV.el=0;LV.run=true;await gset({pl:{[k]:0}})}else LV.run=!LV.run;LV.last=performance.now();render()}
  if(a==='lvexit'){lvHide=1;render()}
  if(a==='lventer'){lvHide=0;render()}
  if(a==='cdstart'){if(!g.cd?.[r])await gset({cd:{[r]:Date.now()}})}
  if(a==='closeround')closeRound(r);
- if(a==='topen'){const o={};th(r).forEach((_,i)=>{if(g.th?.[`${r}_${i}`]==='open')o[`${r}_${i}`]='closed'});const k=`${r}_${t}`;o[k]='open';gset({th:o,ct:{[r]:t},cs:{[k]:g.cs?.[k]??0},pl:{[k]:g.pl?.[k]??0}})}
+ if(a==='topen'){const o={};th(r).forEach((_,i)=>{if(g.th?.[`${r}_${i}`]==='open')o[`${r}_${i}`]='closed'});const k=`${r}_${t}`;o[k]='open';gset({th:o,ct:{[r]:t},one:{[k]:false},cs:{[k]:g.cs?.[k]??0},pl:{[k]:g.pl?.[k]??0}})}
  if(a==='tclose')gset({th:{[`${r}_${t}`]:'closed'}});
  if(a==='idle')gset({r:-1});
  if(a==='mk'){const m=mk[b.dataset.m],i=+b.dataset.i;m[i]=m[i]?0:(+b.dataset.v||1);render()}

diff --git a/aide.html b/aide.html
@@ -69,7 +69,7 @@ mark{background:var(--y);color:var(--n);border-radius:3px;padding:0 2px}
   <div class="mode" role="group" aria-label="Mode d'affichage"><button id="mAll" class="on">Tout voir</button><button id="mStep">Pas à pas</button></div>
  </div>
  <main id="out"></main>
- <p class="upd">Aide mise à jour le 27 novembre 2026</p>
+ <p class="upd">Aide mise à jour le 28 novembre 2026</p>
 </div>
 <script>
 /* Chaque chapitre : titre, phrase d'intro, étapes, astuce, captures (dossier aide/). */
@@ -98,6 +98,7 @@ const CH=[
  '<b>1. Le support</b> Musique (un extrait ou la pochette Deezer), Image (tes photos), Vidéo (un extrait YouTube) ou Texte libre (tu écris toi-même).',
  '<b>2. L\'affichage</b> Musique : l\'extrait, ou la <b>pochette floutée</b> qui devient nette en 30 s. Pour l\'extrait, tu peux ajouter un <b>effet</b> : ralenti, voix aiguë ou à l\'envers. Image : toutes d\'un coup, carrousel (une à la fois), progressif (se dévoile par cases) ou floutée. Texte libre : <b>suite des paroles</b> (tu donnes un vers, les équipes écrivent la suite) ou <b>question</b>.',
  '<b>3. La réponse</b> <b>Champs</b> : coche Artiste, Titre et / ou Bonus. Le bonus seul suffit, avec le libellé de ton choix : Année, Artiste original, Film… Ou <b>QCM</b> : 2 ou 4 réponses au choix. Ou <b>Buzzer</b> : la première équipe qui buzze répond à voix haute. En texte libre, c\'est une réponse écrite ou un QCM.',
+ '<b>Le chrono</b> « Temps par question » : aucun, 15, 20, 30, 45 ou 60 s (30 s conseillé).',
  '<b>Les points</b> 1 pt par case trouvée. Progressif et floutée : 10, 5, 3 ou 1 pt par case, selon le moment où l\'équipe verrouille. QCM : 1 pt par bonne réponse. Réponse écrite en texte libre : 2 pts. Buzzer : 2 pts.',
  '<b>Exemples</b> Un carrousel de pochettes avec Artiste + Titre. Une image en QCM. Un extrait avec seulement « Bonus : Année ». Un extrait à l\'envers en buzzer. Une suite des paroles : « Allez venez Milord… ».'],
  tip:'Les options du thème : le <b>thème mystère</b> à deviner (+30 pts) et le <b>x2</b>, que chaque équipe place sur un thème de la manche pour doubler ses points.',img:['genres','options']},
@@ -126,6 +127,7 @@ const CH=[
 {t:'Animer la soirée',l:'Onglet « Soirée » : un seul écran à la fois, dans l\'ordre.',s:[
  '<em>Ouvrir la manche</em>, puis <em>Ouvrir le thème 1</em>.',
  'Pour chaque question : lance l\'extrait (gros bouton), puis <em>Suivant</em>. <em>Précédent</em> pour revenir.',
+ 'Le <b>chrono</b> part quand la question s\'affiche. Pour un extrait Deezer ou une vidéo, il part quand tu lances la lecture.',
  'La réponse est floutée : <b>maintiens le doigt</b> dessus pour la voir.',
  'En haut, <b>« 2/3 réponses reçues »</b> te dit qui a répondu.',
  'Image progressive : elle se dévoile <b>toute seule en 30 s</b> (10, 5, 3 puis 1 pt).',
@@ -133,8 +135,9 @@ const CH=[
  tip:'Une erreur ? Le bouton <b>Annuler</b> apparaît 2 s après chaque ouverture. La flèche ‹ en haut quitte le mode soirée (équipes, classement).',img:['soiree','soiree-image']},
 {t:'Côté joueurs',l:'Les équipes jouent sur leur téléphone.',s:[
  'Elles scannent le QR code (ou ouvrent le lien) et choisissent un nom d\'équipe.',
- 'Elles répondent dans le thème en cours. Les QCM arrivent <b>une question à la fois</b>.',
- 'Elles peuvent changer leurs réponses jusqu\'à la clôture et placer leur <b>x2</b> sur un thème.',
+ 'En mode soirée, elles voient <b>une seule question à la fois</b>, en grand, quel que soit le type.',
+ 'Un <b>chrono</b> s\'affiche. Les 5 dernières secondes passent en rouge, le chrono grossit et le téléphone vibre. À zéro, la case se verrouille.',
+ 'Les questions passées se rouvrent <b>à la fin du thème</b> (jusqu\'au thème suivant) et pendant la <b>clôture de la manche</b>. C\'est aussi là qu\'elles placent leur <b>x2</b>.',
  'Le téléphone vibre à chaque nouvelle question.'],img:['joueur']},
 {t:'Corriger',l:'Après la clôture, les corrections s\'ouvrent.',s:[
  'Les bonnes réponses sont <b>déjà cochées</b>. En orange : presque juste, à vérifier.',
@@ -155,7 +158,9 @@ const CH=[
 {t:'Écran projection',l:'Pour un vidéoprojecteur ou une TV.',s:[
  'Dans « Préparer », case <b>Projection</b> : <em>Ouvrir</em> sur l\'ordinateur branché à l\'écran.',
  'Passe la page en <b>plein écran</b>.',
- 'Elle suit la soirée toute seule : QR code, question, image, compte à rebours, classement, podium.'],
+ 'Elle suit la soirée toute seule : QR code, question, image, compte à rebours, classement, podium.',
+ 'Le chrono de la question est un anneau en haut à droite. Il devient rouge et grossit sur les 5 dernières secondes.',
+ 'Quand la musique passe, l\'égaliseur prend le style du thème graphique : néon, Memphis, vu-mètre, vinyle ou stylo.'],
  tip:'Elle n\'affiche jamais les réponses avant les corrections. Pour une vidéo, touche une fois « Activer le son ».',img:['projection'],wide:1},
 {t:'En cas de souci',l:'Les réponses aux questions les plus courantes.',s:[
  '<b>Coupure ou téléphone verrouillé</b> : rouvre l\'app, tu reviens au même endroit. Rien n\'est perdu.',
